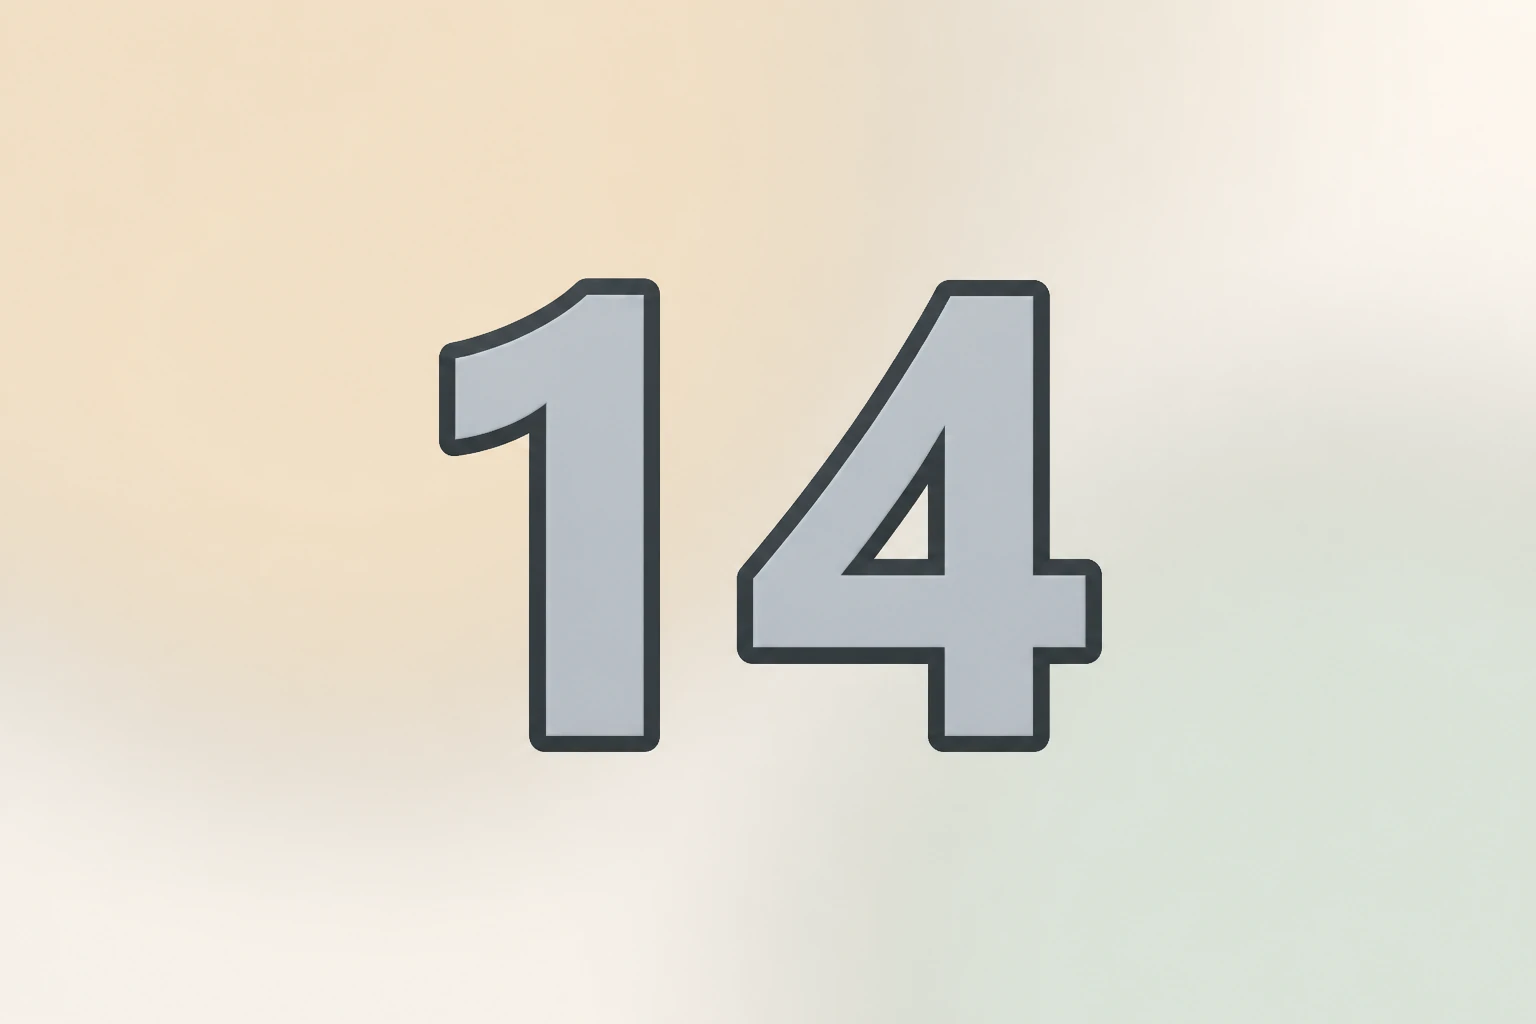
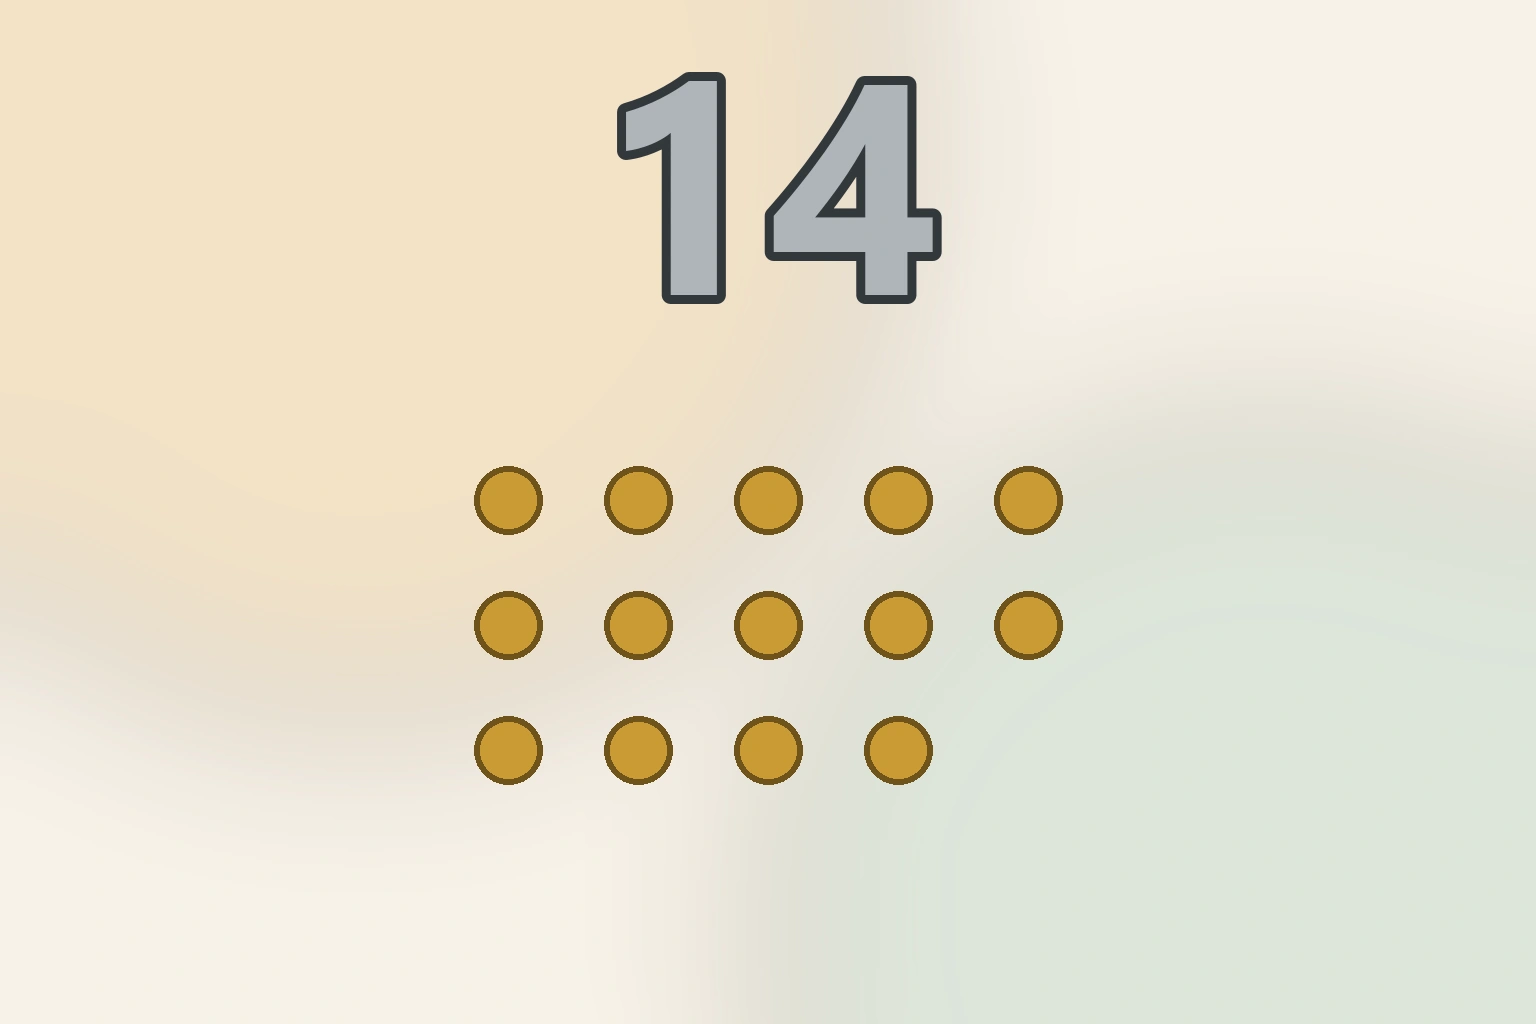
Repair four-card number dot arrays

Changed region(s): [[0.2812, 0.0625, 0.7188, 0.7812], [0.4688, 0.6875, 0.5312, 0.7812]]

diff --git a/scripts/build_a1_four_card_number_repairs.py b/scripts/build_a1_four_card_number_repairs.py
@@ -1,0 +1,198 @@
+from __future__ import annotations
+
+"""Build the crop-safe Lesson 3.4 number variants for thirteen through eighteen.
+
+The ordinary 3:2 number masters place the numeral on the left and the dot array
+on the right. The fixed centered 4:5 mobile crop cannot retain both cues, and an
+older repair accidentally kept only the numeral. These deterministic siblings
+stack the numeral above the complete five-column dot array inside the exact
+four-card safe area. The existing one-through-ten art is deliberately outside
+this builder's registry and remains byte-for-byte untouched.
+"""
+
+import argparse
+import hashlib
+import math
+from pathlib import Path
+
+from PIL import Image, ImageDraw, ImageOps
+
+try:
+    from scripts.build_a1_media_composites import background, font
+except ModuleNotFoundError:  # Direct `python scripts/...` execution.
+    from build_a1_media_composites import background, font
+
+
+ROOT = Path(__file__).resolve().parents[1]
+ASSET_ROOT = ROOT / "Lessons" / "Lesson1" / "images"
+SIZE = (1536, 1024)
+
+# A centered 4:5 crop of the 1536x1024 master retains x=358..1178.
+SAFE_LEFT = 358
+SAFE_RIGHT = 1178
+SAFE_TOP = 0
+SAFE_BOTTOM = 1024
+
+NUMBER_CENTER_X = 768
+NUMBER_TOP = 72
+NUMBER_FONT_SIZE = 300
+
+DOT_COLUMNS = 5
+DOT_X = (508, 638, 768, 898, 1028)
+DOT_START_Y = 500
+DOT_SPACING_Y = 125
+DOT_RADIUS = 34
+
+DIGIT_FILL = "#aeb5ba"
+DIGIT_OUTLINE = "#33383b"
+DOT_FILL = "#c99a35"
+DOT_OUTLINE = "#6f531c"
+
+TARGETS = {
+    "a1_scene_n13_e92ef3e_four-card.webp": 13,
+    "a1_scene_n14_f713285_four-card.webp": 14,
+    "a1_scene_n15_35e4ec4_four-card.webp": 15,
+    "a1_scene_n16_e4aa4eb_four-card.webp": 16,
+    "a1_scene_n17_9b96027_four-card.webp": 17,
+    "a1_scene_n18_bdd888e_four-card.webp": 18,
+}
+
+
+def dot_centers(number: int) -> tuple[tuple[int, int], ...]:
+    if number not in TARGETS.values():
+        raise ValueError(f"Unsupported four-card number: {number}")
+    return tuple(
+        (DOT_X[index % DOT_COLUMNS], DOT_START_Y + (index // DOT_COLUMNS) * DOT_SPACING_Y)
+        for index in range(number)
+    )
+
+
+def _assert_safe_bounds(
+    number: int,
+    numeral_bounds: tuple[int, int, int, int],
+    centers: tuple[tuple[int, int], ...],
+) -> None:
+    left, top, right, bottom = numeral_bounds
+    if not (SAFE_LEFT <= left < right <= SAFE_RIGHT and SAFE_TOP <= top < bottom <= SAFE_BOTTOM):
+        raise RuntimeError(f"Number {number} numeral escaped the centered four-card crop: {numeral_bounds}")
+    if len(centers) != number:
+        raise RuntimeError(f"Number {number} rendered {len(centers)} dots")
+    for x, y in centers:
+        bounds = (x - DOT_RADIUS, y - DOT_RADIUS, x + DOT_RADIUS, y + DOT_RADIUS)
+        left, top, right, bottom = bounds
+        if not (SAFE_LEFT <= left < right <= SAFE_RIGHT and SAFE_TOP <= top < bottom <= SAFE_BOTTOM):
+            raise RuntimeError(f"Number {number} dot escaped the centered four-card crop: {bounds}")
+
+
+def render_number(number: int) -> Image.Image:
+    image = background("#e0a84c")
+    draw = ImageDraw.Draw(image)
+
+    numeral = str(number)
+    numeral_font = font(NUMBER_FONT_SIZE)
+    measured = draw.textbbox((0, 0), numeral, font=numeral_font, stroke_width=9)
+    width = measured[2] - measured[0]
+    x = NUMBER_CENTER_X - width // 2 - measured[0]
+    y = NUMBER_TOP - measured[1]
+    draw.text(
+        (x, y),
+        numeral,
+        font=numeral_font,
+        fill=DIGIT_FILL,
+        stroke_width=9,
+        stroke_fill=DIGIT_OUTLINE,
+    )
+    numeral_bounds = draw.textbbox((x, y), numeral, font=numeral_font, stroke_width=9)
+
+    centers = dot_centers(number)
+    for dot_x, dot_y in centers:
+        draw.ellipse(
+            (
+                dot_x - DOT_RADIUS,
+                dot_y - DOT_RADIUS,
+                dot_x + DOT_RADIUS,
+                dot_y + DOT_RADIUS,
+            ),
+            fill=DOT_FILL,
+            outline=DOT_OUTLINE,
+            width=6,
+        )
+
+    _assert_safe_bounds(number, numeral_bounds, centers)
+    return image
+
+
+def build_registry() -> dict[str, Image.Image]:
+    rendered = {filename: render_number(number) for filename, number in TARGETS.items()}
+    if set(rendered) != set(TARGETS):
+        missing = sorted(set(TARGETS) - set(rendered))
+        extra = sorted(set(rendered) - set(TARGETS))
+        raise RuntimeError(f"Four-card number registry drift: missing={missing}, extra={extra}")
+    return rendered
+
+
+def save_outputs(rendered: dict[str, Image.Image], output_dir: Path) -> list[Path]:
+    if set(rendered) != set(TARGETS):
+        missing = sorted(set(TARGETS) - set(rendered))
+        extra = sorted(set(rendered) - set(TARGETS))
+        raise RuntimeError(f"Four-card number registry drift: missing={missing}, extra={extra}")
+
+    output_dir.mkdir(parents=True, exist_ok=True)
+    outputs: list[Path] = []
+    for filename in TARGETS:
+        image = rendered[filename]
+        if image.size != SIZE:
+            raise RuntimeError(f"{filename}: rendered {image.size}, expected {SIZE}")
+        destination = output_dir / filename
+        image.save(destination, "WEBP", quality=94, method=6, exact=True)
+        with Image.open(destination) as written:
+            if written.size != SIZE or written.format != "WEBP":
+                raise RuntimeError(f"{filename}: wrote {written.format} at {written.size}")
+        outputs.append(destination)
+    return outputs
+
+
+def render_contact_sheet(paths: list[Path], destination: Path) -> Path:
+    tile_width = 260
+    tile_height = 325
+    label_height = 44
+    columns = 3
+    rows = math.ceil(len(paths) / columns)
+    sheet = Image.new("RGB", (columns * tile_width, rows * (tile_height + label_height)), "#f5f0e6")
+    draw = ImageDraw.Draw(sheet)
+    label_font = font(19)
+    for index, path in enumerate(paths):
+        column = index % columns
+        row = index // columns
+        x = column * tile_width
+        y = row * (tile_height + label_height)
+        with Image.open(path) as opened:
+            crop = ImageOps.fit(opened.convert("RGB"), (240, 300), Image.Resampling.LANCZOS)
+        sheet.paste(crop, (x + 10, y + 10))
+        draw.rounded_rectangle((x + 8, y + 8, x + 252, y + 317), radius=18, outline="#33383b", width=4)
+        draw.text((x + 10, y + tile_height + 4), path.name.split("_n", 1)[1].split("_", 1)[0], fill="#33383b", font=label_font)
+    destination.parent.mkdir(parents=True, exist_ok=True)
+    sheet.save(destination, "PNG", optimize=True)
+    return destination
+
+
+def parse_args() -> argparse.Namespace:
+    parser = argparse.ArgumentParser(description="Build the six crop-safe Lesson 3.4 number variants.")
+    parser.add_argument("--output-dir", type=Path, default=ASSET_ROOT)
+    parser.add_argument("--contact-sheet", type=Path)
+    return parser.parse_args()
+
+
+def main() -> None:
+    args = parse_args()
+    paths = save_outputs(build_registry(), args.output_dir)
+    for path in paths:
+        digest = hashlib.sha256(path.read_bytes()).hexdigest()
+        print(f"{path.name}\t{digest}")
+    if args.contact_sheet:
+        print(f"contact-sheet\t{render_contact_sheet(paths, args.contact_sheet)}")
+    print(f"Built {len(paths)} deterministic 1536x1024 Lesson 3.4 four-card number variants.")
+
+
+if __name__ == "__main__":
+    main()

diff --git a/backend/tests/test_a1_four_card_number_repairs.py b/backend/tests/test_a1_four_card_number_repairs.py
@@ -1,0 +1,133 @@
+from __future__ import annotations
+
+from collections import deque
+import hashlib
+import importlib.util
+from pathlib import Path
+import unittest
+
+from PIL import Image
+
+
+ROOT = Path(__file__).resolve().parents[2]
+BUILDER_PATH = ROOT / "scripts" / "build_a1_four_card_number_repairs.py"
+SPEC = importlib.util.spec_from_file_location("build_a1_four_card_number_repairs", BUILDER_PATH)
+assert SPEC and SPEC.loader
+BUILDER = importlib.util.module_from_spec(SPEC)
+SPEC.loader.exec_module(BUILDER)
+
+CANONICAL_ROOT = ROOT / "Lessons" / "Lesson1" / "images"
+MOBILE_ROOT = ROOT / "mobile" / "assets" / "lesson-assets"
+FRONTEND_ROOT = ROOT / "frontend" / "public" / "lesson-assets"
+
+TARGETS = {
+    "a1_scene_n13_e92ef3e_four-card.webp": 13,
+    "a1_scene_n14_f713285_four-card.webp": 14,
+    "a1_scene_n15_35e4ec4_four-card.webp": 15,
+    "a1_scene_n16_e4aa4eb_four-card.webp": 16,
+    "a1_scene_n17_9b96027_four-card.webp": 17,
+    "a1_scene_n18_bdd888e_four-card.webp": 18,
+}
+
+SAFE_LEFT = 358
+SAFE_RIGHT = 1178
+MIN_DOT_AREA = 1_000
+MAX_DOT_AREA = 6_000
+
+
+def sha256(path: Path) -> str:
+    return hashlib.sha256(path.read_bytes()).hexdigest()
+
+
+def is_gold_fill(pixel: tuple[int, ...]) -> bool:
+    red, green, blue = pixel[:3]
+    return (
+        150 <= red <= 235
+        and 95 <= green <= 195
+        and blue <= 105
+        and red >= green + 20
+        and green >= blue + 35
+    )
+
+
+def gold_components(image: Image.Image) -> list[tuple[int, tuple[int, int, int, int]]]:
+    rgb = image.convert("RGB")
+    width, height = rgb.size
+    pixels = rgb.load()
+    mask = bytearray(width * height)
+    for y in range(height):
+        row_offset = y * width
+        for x in range(width):
+            if is_gold_fill(pixels[x, y]):
+                mask[row_offset + x] = 1
+
+    components: list[tuple[int, tuple[int, int, int, int]]] = []
+    for y in range(height):
+        row_offset = y * width
+        for x in range(width):
+            start = row_offset + x
+            if not mask[start]:
+                continue
+            mask[start] = 0
+            queue = deque([(x, y)])
+            area = 0
+            left = right = x
+            top = bottom = y
+            while queue:
+                current_x, current_y = queue.popleft()
+                area += 1
+                left = min(left, current_x)
+                right = max(right, current_x)
+                top = min(top, current_y)
+                bottom = max(bottom, current_y)
+                for next_x, next_y in (
+                    (current_x - 1, current_y),
+                    (current_x + 1, current_y),
+                    (current_x, current_y - 1),
+                    (current_x, current_y + 1),
+                ):
+                    if not (0 <= next_x < width and 0 <= next_y < height):
+                        continue
+                    index = next_y * width + next_x
+                    if mask[index]:
+                        mask[index] = 0
+                        queue.append((next_x, next_y))
+            if MIN_DOT_AREA <= area <= MAX_DOT_AREA:
+                components.append((area, (left, top, right + 1, bottom + 1)))
+    return components
+
+
+class A1FourCardNumberRepairTests(unittest.TestCase):
+    def test_builder_is_scoped_to_exactly_thirteen_through_eighteen(self) -> None:
+        self.assertEqual(BUILDER.TARGETS, TARGETS)
+        self.assertEqual(set(BUILDER.TARGETS.values()), set(range(13, 19)))
+        self.assertFalse(any(filename.startswith("a1_n") for filename in BUILDER.TARGETS))
+
+    def test_committed_variants_keep_every_dot_inside_the_four_card_crop(self) -> None:
+        for filename, expected_count in TARGETS.items():
+            with self.subTest(filename=filename):
+                path = CANONICAL_ROOT / filename
+                with Image.open(path) as opened:
+                    self.assertEqual(opened.format, "WEBP")
+                    self.assertEqual(opened.size, (1536, 1024))
+                    components = gold_components(opened)
+                self.assertEqual(
+                    len(components),
+                    expected_count,
+                    f"{filename} must visibly contain exactly {expected_count} separate gold dots",
+                )
+                for area, (left, _top, right, _bottom) in components:
+                    self.assertGreaterEqual(area, MIN_DOT_AREA)
+                    self.assertGreaterEqual(left, SAFE_LEFT)
+                    self.assertLessEqual(right, SAFE_RIGHT)
+
+    def test_canonical_mobile_and_frontend_copies_are_byte_identical(self) -> None:
+        for filename in TARGETS:
+            with self.subTest(filename=filename):
+                canonical_hash = sha256(CANONICAL_ROOT / filename)
+                self.assertEqual(sha256(MOBILE_ROOT / filename), canonical_hash)
+                self.assertEqual(sha256(FRONTEND_ROOT / filename), canonical_hash)
+
+
+if __name__ == "__main__":
+    unittest.main()
